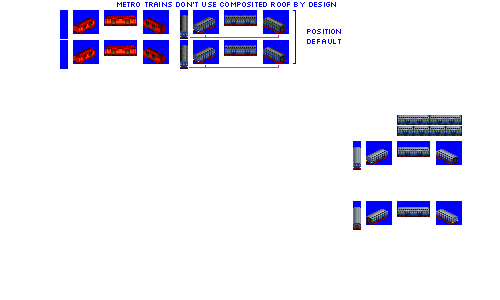
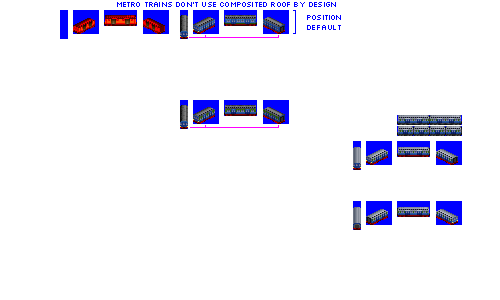
Change: WIP on metro pax coaches

Changed region(s): [[0.12, 0.03, 0.69, 0.24], [0.36, 0.33, 0.6, 0.45], [0.45, 0.06, 0.51, 0.09]]

diff --git a/src/rosters/pony.py b/src/rosters/pony.py
@@ -509,7 +509,6 @@ def main():
             },
             "METRO": {
                 "standard": [45, 55, 65],
-                "suburban": [45, 55, 65], # CABBAGE TEMP
                 # only standard for metro in Pony
             },
             "NG": {
@@ -529,7 +528,7 @@ def main():
         pax_car_capacity_per_unit_length={
             "RAIL": [3, 3.75, 4.5, 5.25, 6, 6],
             "NG": [3, 5, 5, 6],
-            "METRO": [8, 8, 8], # CABBAGE
+            "METRO": [15, 20, 25],
         },
         pax_car_capacity_types={
             "default": {
@@ -1149,6 +1148,9 @@ def main():
                 ("LOWER_LINES", 3),
             ],
             "metro_pax_liveries": [
+                ("METROLAND", 0),
+            ],
+            "metro_pax_unit_liveries": [
                 ("METROLAND", 0),
                 ("METROLAND", 1),
             ],

diff --git a/src/train/schemas.py b/src/train/schemas.py
@@ -1977,7 +1977,7 @@ class PassengerEngineMetro(PassengerEngineBase):
     Pax metro train.  Just a sparse subclass to force the gestalt_graphics
     """
 
-    livery_group_name = "metro_pax_liveries"
+    livery_group_name = "metro_pax_unit_liveries"
 
     def __init__(self, **kwargs):
         super().__init__(**kwargs)
@@ -7857,7 +7857,7 @@ class PassengerMetroCar(PassengerCarBase):
         super().__init__(**kwargs)
         # PassengerCarBase sets 'express' speed, but suburban coaches should override this
         # note that setting the speed lower doesn't actually balance profitability vs. standard pax coaches, but it gives a possibly comforting delusion about roles of each type
-        self.speed_class = "suburban" # CABBAGE
+        self.speed_class = "standard"
         # buy costs are levelled for standard and lux pax cars, not an interesting factor for variation
         self.buy_cost_adjustment_factor = 1.4 # CABBAGE
         # give it a run cost nerf due to the very high capacity
@@ -7886,7 +7886,7 @@ class PassengerMetroCar(PassengerCarBase):
 
     @property
     def pax_car_capacity_type(self):
-        return self.roster.pax_car_capacity_types["high_capacity"]
+        return self.roster.pax_car_capacity_types["default"]
 
     @property
     def subrole(self):